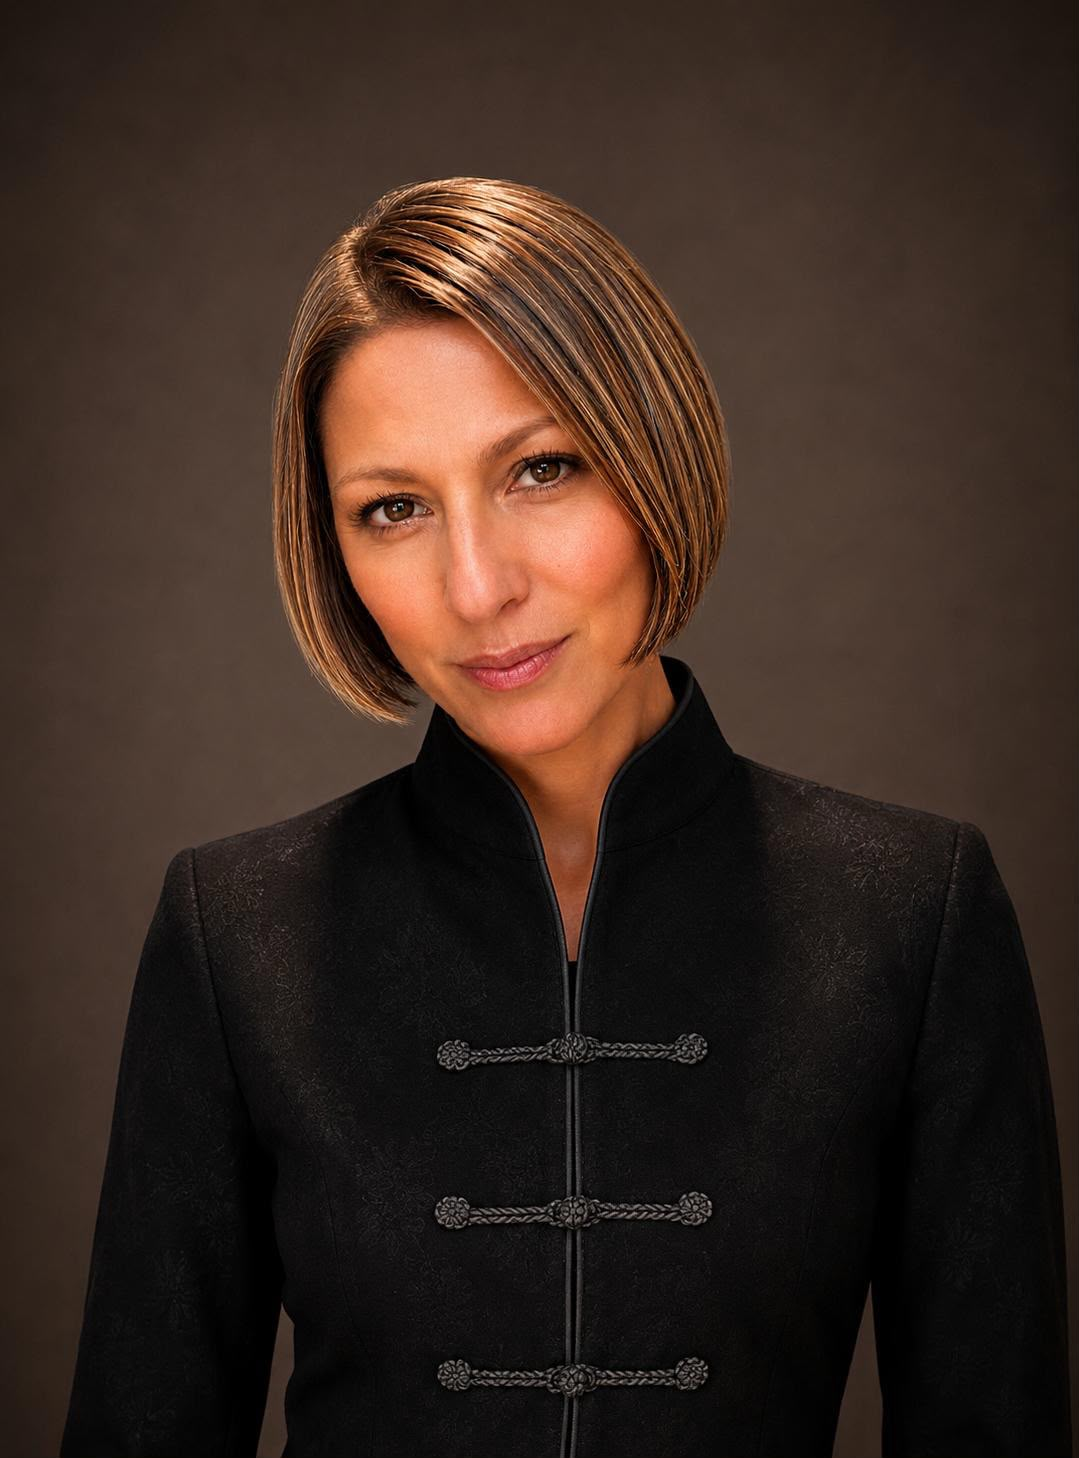
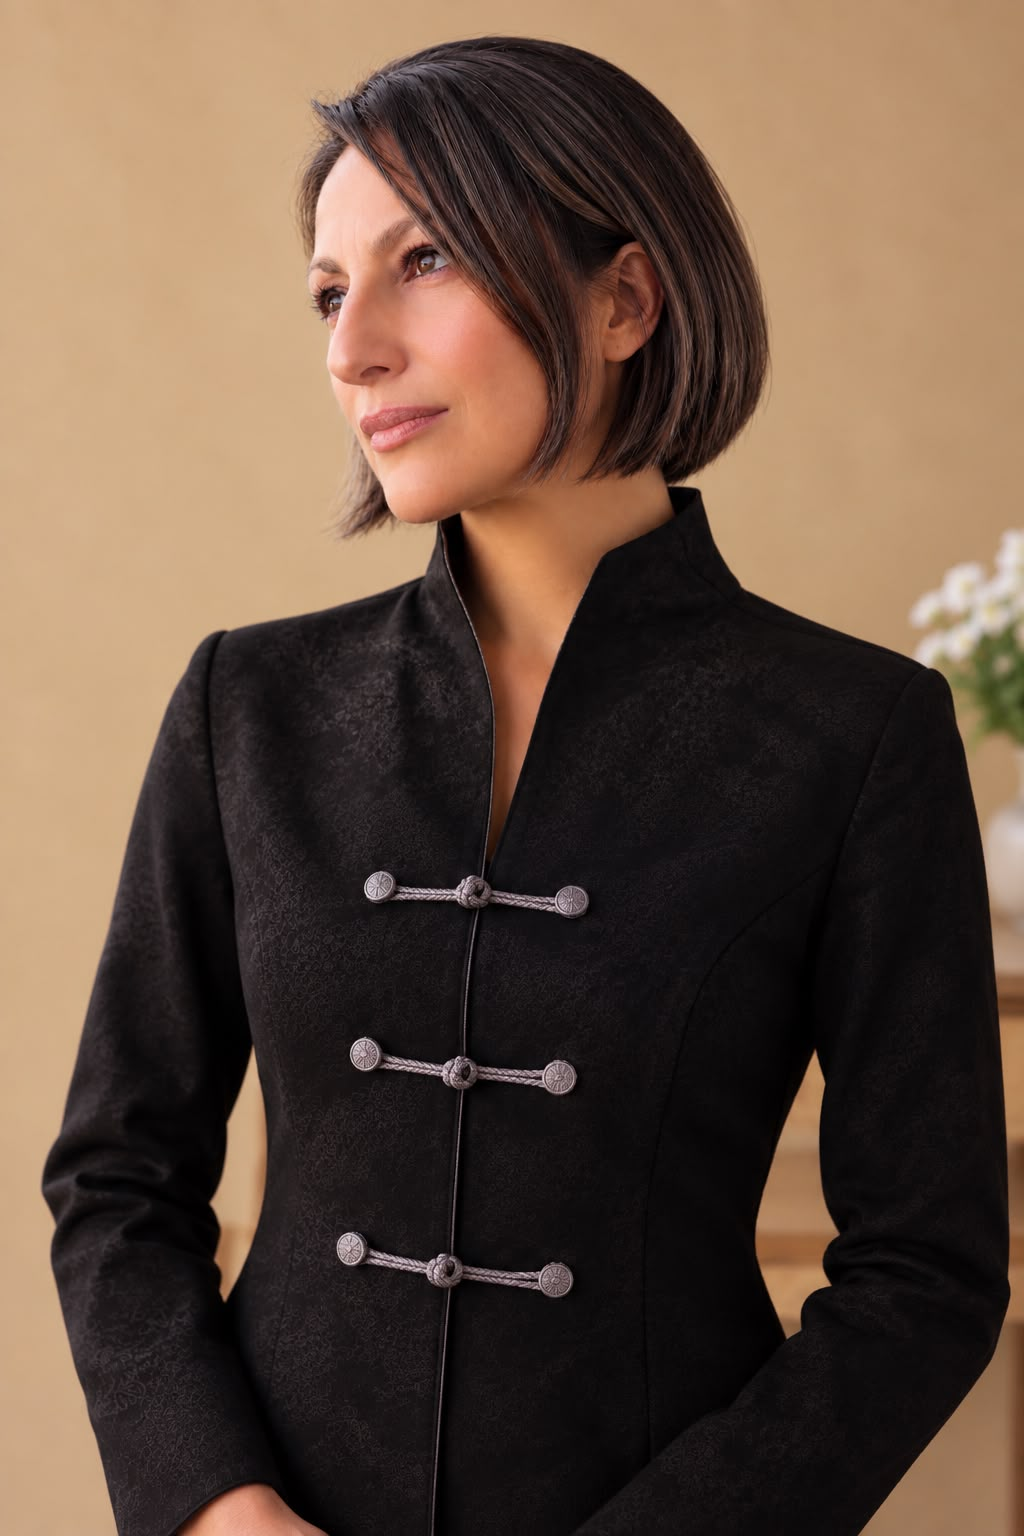
Enlarge Arabic/English switcher box, update portrait with new photo, and match bio font size to CHMC (16px Montserrat)

diff --git a/src/components/HeroSection.tsx b/src/components/HeroSection.tsx
@@ -56,24 +56,24 @@ export default function HeroSection({ currentLang: propLang }: HeroSectionProps)
             </h2>
 
             {/* Qualifications / Credentials */}
-            <div className="mt-2.5 mb-3.5 space-y-1 font-content text-[13px] sm:text-[13.5px] text-[#1c1a16] font-normal leading-snug">
-              <p className="font-medium text-[#9e8745]">
+            <div className="mt-3 mb-5 space-y-1.5 font-content text-[15px] sm:text-[16px] text-[#1c1a16] font-normal leading-relaxed">
+              <div className="inline-flex items-center px-3.5 py-1.5 rounded-[5px] bg-[#C2AB62]/15 border border-[#C2AB62]/60 text-[#8a722f] font-semibold text-[14px] sm:text-[15px] tracking-wide mb-1 select-none shadow-sm">
                 {isAr ? "الإنجليزية والعربية" : "English & Arabic"}
-              </p>
-              <p>
+              </div>
+              <p className="font-semibold text-[#121110]">
                 {isAr
                   ? "أخصائية نفسية مرخصة من هيئة تنمية المجتمع في دبي (CDA)"
                   : "CDA Licensed Psychologist in Dubai"}
               </p>
-              <p>
+              <p className="text-[#3a352e]">
                 {isAr
                   ? "معالجة نفسية | استشارية زواج | معالجة أسرية"
                   : "Psychotherapist | Marriage Counselor | Family Therapist"}
               </p>
             </div>
 
-            {/* Biography Paragraphs - Editorial Prose in Montserrat */}
-            <div className="space-y-3.5 font-content text-[13px] sm:text-[13.5px] leading-[1.72] text-[#22201b] text-left rtl:text-right font-normal">
+            {/* Biography Paragraphs - Exact CHMC Style & Font Size (16px Montserrat, generous line height) */}
+            <div className="space-y-4 font-content text-[15.5px] sm:text-[16px] leading-[1.72] text-[#1c1a16] text-left rtl:text-right font-normal">
               <p>
                 {isAr
                   ? "نشأت ناتالي روزنبلوم متأثرة بجذورها الأوروبية والشرق أوسطية ضمن النسيج الثقافي للتقاليد العربية والحياة الأسرية. واصلت لاحقاً تعليمها وتدريبها الإكلينيكي في أمريكا الشمالية، حيث حصلت على درجة الماجستير في علم النفس الإكلينيكي من جامعة كابيلا في مينيسوتا بالولايات المتحدة الأمريكية، ومعترف بها من قبل الجمعية الأمريكية لعلم النفس (APA). ناتالي أيضاً عضو في الجمعية الكندية للإرشاد والعلاج النفسي (CCPA)."
@@ -103,19 +103,19 @@ export default function HeroSection({ currentLang: propLang }: HeroSectionProps)
           {/* Right Column: Portrait Photo & Expertise Box (Exact Proportions) */}
           <div className="lg:col-span-5 flex flex-col items-center lg:items-end w-full">
             {/* Crisp Rectangular Portrait with Exact #C2AB62 Gold Border */}
-            <div className="relative w-full max-w-[340px] sm:max-w-[365px] lg:max-w-[380px] aspect-[270/323] border border-[#C2AB62] shadow-[0_6px_24px_rgba(194,171,98,0.2)] overflow-hidden">
+            <div className="relative w-full max-w-[340px] sm:max-w-[375px] lg:max-w-[390px] aspect-[270/335] border border-[#C2AB62] shadow-[0_6px_24px_rgba(194,171,98,0.22)] overflow-hidden">
               <Image
                 src="/images/nathalie-exact-portrait.jpg"
                 alt="Nathalie Rosenblum - CDA Licensed Psychologist in Dubai"
                 fill
                 priority
-                sizes="(max-width: 768px) 100vw, 380px"
-                className="object-cover object-[center_10%]"
+                sizes="(max-width: 768px) 100vw, 390px"
+                className="object-cover object-[center_12%]"
               />
             </div>
 
             {/* Expertise Box Directly Below Portrait with Same Exact Width */}
-            <div className="w-full max-w-[340px] sm:max-w-[365px] lg:max-w-[380px] mt-3 sm:mt-3.5">
+            <div className="w-full max-w-[340px] sm:max-w-[375px] lg:max-w-[390px] mt-3 sm:mt-3.5">
               <ExpertiseCard currentLang={isAr ? "ar" : "en"} />
             </div>
           </div>

diff --git a/src/components/Navbar.tsx b/src/components/Navbar.tsx
@@ -106,24 +106,24 @@ export default function Navbar({
 
         {/* Language Selector + Mobile Menu Trigger */}
         <div className="flex items-center space-x-3 rtl:space-x-reverse">
-          {/* Dual Pill Language Switcher */}
-          <div className="flex flex-col rounded-[3px] overflow-hidden border border-[#C2AB62]/70 shadow-[0_2px_8px_rgba(0,0,0,0.7)] w-[66px] sm:w-[70px] select-none">
+          {/* Dual Pill Language Switcher - Enlarged & High Readability */}
+          <div className="flex flex-col rounded-[6px] overflow-hidden border-[1.5px] border-[#C2AB62] shadow-[0_3px_12px_rgba(0,0,0,0.65)] w-[88px] sm:w-[98px] select-none">
             <button
               onClick={() => toggleLang("en")}
-              className={`py-1 text-center font-content text-[12px] tracking-wider transition-all duration-200 cursor-pointer ${
+              className={`py-1.5 sm:py-2 text-center font-content text-[13.5px] sm:text-[14.5px] tracking-wider transition-all duration-200 cursor-pointer ${
                 currentLang === "en"
                   ? "bg-gradient-to-b from-[#f3e5be] via-[#C2AB62] to-[#9e8745] text-[#121110] font-bold shadow-inner"
-                  : "bg-[#0e0f14] text-[#ded9ce] hover:text-[#C2AB62]"
+                  : "bg-[#0e0f14] text-[#ded9ce] hover:text-[#C2AB62] font-medium"
               }`}
             >
               English
             </button>
             <button
               onClick={() => toggleLang("ar")}
-              className={`py-1 text-center font-content text-[12px] tracking-wider border-t border-[#C2AB62]/40 transition-all duration-200 cursor-pointer ${
+              className={`py-1.5 sm:py-2 text-center font-content text-[13.5px] sm:text-[14.5px] tracking-wider border-t border-[#C2AB62]/50 transition-all duration-200 cursor-pointer ${
                 currentLang === "ar"
                   ? "bg-gradient-to-b from-[#f3e5be] via-[#C2AB62] to-[#9e8745] text-[#121110] font-bold shadow-inner"
-                  : "bg-[#0a0b0f] text-[#ded9ce] hover:text-[#C2AB62]"
+                  : "bg-[#0a0b0f] text-[#ded9ce] hover:text-[#C2AB62] font-medium"
               }`}
             >
               العربية

diff --git a/src/components/ExpertiseCard.tsx b/src/components/ExpertiseCard.tsx
@@ -13,12 +13,12 @@ export default function ExpertiseCard({ currentLang = "en" }: ExpertiseCardProps
       className="w-full bg-[#f5f0e8]/85 backdrop-blur-[1px] border border-[#C2AB62] shadow-[0_4px_16px_rgba(194,171,98,0.12)] p-4 sm:p-4.5 text-[#24221d]"
       dir={isAr ? "rtl" : "ltr"}
     >
-      <h3 className="font-serif text-[20px] sm:text-[22px] text-[#121110] font-normal tracking-wide">
+      <h3 className="font-serif text-[22px] sm:text-[24px] text-[#121110] font-normal tracking-wide">
         {isAr ? "مجالات الخبرة" : "Expertise"}
       </h3>
-      <div className="w-8 h-[1px] bg-[#C2AB62] mt-1 mb-2.5 shadow-[0_0_6px_rgba(194,171,98,0.4)]" />
+      <div className="w-10 h-[1.5px] bg-[#C2AB62] mt-1.5 mb-3 shadow-[0_0_6px_rgba(194,171,98,0.4)]" />
 
-      <div className="space-y-2.5 font-content text-[12.5px] sm:text-[13px] leading-[1.55] text-[#282520]">
+      <div className="space-y-3 font-content text-[14px] sm:text-[14.5px] lg:text-[15px] leading-[1.65] text-[#24211c]">
         {/* Diagnostic Assessment Block */}
         <p className="text-left rtl:text-right">
           {isAr
